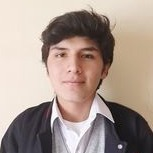
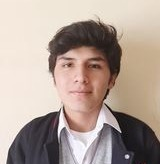
Entregable 1 - IBM

diff --git a/nosotros.html b/nosotros.html
@@ -84,13 +84,13 @@
             <div class="carousel-item">
                     <div class="user col-md-8">
                         <div class="user_image">
-                            <img src="assets/images/whatsapp-image-2021-09-02-at-3.47.01-pm-400x515.jpg" alt="">
+                            <img src="assets/images/cesar-foto-160x348.jpeg" alt="">
                         </div>
                         <div class="user_text mb-4">
-                            <p class="mbr-fonts-style display-5">Melany Celia Cama Bahamonde<br></p>
+                            <p class="mbr-fonts-style display-5">César Antonio Fernandez Huyhua<br></p>
                         </div>
-                        <div class="user_name mbr-fonts-style mb-2 display-4"><strong>COORDINADORA GENERAL</strong></div>
-                        <div class="user_desk mbr-fonts-style display-7">Estudiante de Ingeniería Biomédica, que actualmente está cursando el cuarto ciclo. Tiene un particular interés en la especialidad de Ingeniería de Tejidos pues esta comprende su amor por la biología celular y el poder usar sus conocimientos para ayudar, además, de contribuir en el desarrollo tecnológico del Perú en el área de la medicina. En este proyecto cumple la función de coordinador general, quien está a cargo de supervisar el trabajo continuo de cada integrante del equipo, así como también de coordinar las actividades del mismo.<br><br><strong>Correo eléctronico:</strong> <a href="mailto:melany.cama@upch.pe" class="text-primary">melany.cama@upch.pe</a></div>
+                        <div class="user_name mbr-fonts-style mb-2 display-4"><strong>Coordinador general e investigador</strong></div>
+                        <div class="user_desk mbr-fonts-style display-7">Estudiante de Ingeniería Biomédica de las universidades PUCP - UPCH, que está buscando volver realidad la ficción en área de la medicina con la especialización en Terapias y rehabilitación para así dar una mejor calidad de vida a los pacientes que los necesiten.<br>------------------------------------------------------------------------------------------------------------------------------------------------------------------------------------------------------------------<br><br><div>En este proyecto cumple la función de coordinador general, quien está a cargo de supervisar el trabajo continuo de cada integrante del equipo, así como también de coordinar las actividades.&nbsp;<span style="font-size: 1.2rem;">También es encargado de recopilar y analizar la información de valor usando buscadores especializados como TripDataBase, PubMed y Google Scholar para adentrarse en la problemática que permita proponer soluciones viables.</span></div><div><div><br><strong>Correo eléctronico:</strong> <a href="mailto:cesar.fernandez.h@upch.pe" class="text-primary">cesar.fernandez.h@upch.pe</a></div></div></div>
                     </div>
                 </div><div class="carousel-item">
                     <div class="user col-md-8">
@@ -100,9 +100,9 @@
                         <div class="user_text mb-4">
                             <p class="mbr-fonts-style display-5">María Cristina Orihuela Flores<br></p>
                         </div>
-                        <div class="user_name mbr-fonts-style mb-2 display-4">
-                            <strong>DELEGADA DE LA REDACIÓN</strong></div>
-                        <div class="user_desk mbr-fonts-style display-7">Estudiante del cuarto ciclo de Ingeniería Biomédica. Sus áreas de interés son el desarrollo de nanotecnologías y dispositivos wearables que ayuden a solucionar problemas de salud. Planea especializarse en Ingeniería de Tejidos y Biomateriales o Ingeniería Clínica. En el presente proyecto, es encargada de verificar la redacción y ortografía de los entregables y actas.<br><br><strong>Correo electrónico:</strong> <a href="mailto:maria.orihuela@upch.pe" class="text-primary">maria.orihuela@upch.pe</a></div>
+                        <div class="user_name mbr-fonts-style mb-2 display-4"><strong>Programadora de escritorio</strong></div>
+                        <div class="user_desk mbr-fonts-style display-7">Estudiante del cuarto ciclo de Ingeniería Biomédica. Sus áreas de interés son el desarrollo de nanotecnologías y dispositivos wearables que ayuden a solucionar problemas de salud. Planea especializarse en Ingeniería de Tejidos y Biomateriales o Ingeniería Clínica.<div>------------------------------------------------------------------------------------------------------------------------------------------------------------------------------------------------------------------
+</div><div><br></div><div>En el presente proyecto, es encargada de la programación de escritorio, esto es, implementar y verificar el software para desarrollar una solución viable al problema propuesto, haciendo uso de lenguajes de programación como C, Phyton y HTML.</div><div><br><strong>Correo electrónico:</strong> <a href="mailto:maria.orihuela@upch.pe" class="text-primary">maria.orihuela@upch.pe</a></div></div>
                     </div>
                 </div><div class="carousel-item">
                     <div class="user col-md-8">
@@ -113,8 +113,9 @@
                             <p class="mbr-fonts-style display-5">
                                 María Angélica Rejas Núñez</p>
                         </div>
-                        <div class="user_name mbr-fonts-style mb-2 display-4"><strong>DISEÑADORA WEB</strong></div>
-                        <div class="user_desk mbr-fonts-style display-7">Estudiante de Ingeniería Biomédica (PUCP-UPCH), que cursa el cuarto ciclo de la carrera. Se inclina por las especialidades de biomecánica e ingeniería de tejidos con el fin de apoyar en la búsqueda de la solución a enfermedades poco comunes o para proporcionar una mejor calidad de vida. Actualmente, tiene el cargo de diseñador web, en otros términos, supervisa el correcto funcionamiento de la página web; asimismo, reparte y supervisa, de manera optimizada, el presente proyecto.<br><br><strong>Correo electrónico:</strong> <a href="mailto:maria.rejas@upch.pe" class="text-primary">maria.rejas@upch.pe</a></div>
+                        <div class="user_name mbr-fonts-style mb-2 display-4"><strong>Programadora electrónica</strong></div>
+                        <div class="user_desk mbr-fonts-style display-7">Estudiante de Ingeniería Biomédica (PUCP-UPCH), que cursa el cuarto ciclo de la carrera. Se inclina por las especialidades de biomecánica e ingeniería de tejidos con el fin de apoyar en la búsqueda de la solución a enfermedades poco comunes o para proporcionar una mejor calidad de vida.<div>------------------------------------------------------------------------------------------------------------------------------------------------------------------------------------------------------------------
+</div><div><br></div><div>Actualmente, tiene el cargo de programadora electrónica, en otros términos, supervisa el correcto funcionamiento y diseño electrónico de la propuesta de solución planteada por el equipo; por medio, del programa de Tinkercad.</div><div><br><strong>Correo electrónico:</strong> <a href="mailto:maria.rejas@upch.pe" class="text-primary">maria.rejas@upch.pe</a></div></div>
                     </div>
                 </div><div class="carousel-item">
                     <div class="user col-md-8">
@@ -126,8 +127,8 @@
                                 Joseph Jesus Melgarejo Castillo
                             </p>
                         </div>
-                        <div class="user_name mbr-fonts-style mb-2 display-4"><strong>DISEÑADOR DE SOFTWARE</strong></div>
-                        <div class="user_desk mbr-fonts-style display-7">Estudiante de ingeniería Biomédica de cuarto ciclo. Me motiva seguir esta carrera porque abarca mis sueños, intereses e ideales que siempre he tenido. Estoy interesado en la creación de startups enfocadas en la mejora de la calidad de vida de las personas. Encargado del diseño de Software enfocado en los ejes de programación y electrónica relacionados con I.A y Ciencias de Datos.&nbsp;<br><br><strong>Correo electrónico: </strong><a href="mailto:joseph.melgarejo@upch.pe" class="text-primary">joseph.melgarejo@upch.pe</a></div>
+                        <div class="user_name mbr-fonts-style mb-2 display-4"><strong>Diseñador de la página web y redactor&nbsp;</strong></div>
+                        <div class="user_desk mbr-fonts-style display-7"><div>Estudiante de ingeniería Biomédica de cuarto ciclo. Le motiva seguir esta carrera porque abarca sus sueños,intereses e ideales que siempre ha tenido. Está interesado en la creación de startups enfocadas en la mejora de la calidad de vida de las personas.</div>------------------------------------------------------------------------------------------------------------------------------------------------------------------------------------------------------------------<div><div><br></div><div>Es encargado de supervisar el correcto funcionamiento de la página web utilizando principalmente Mobirise, Pycharm y Github; asimismo analizar las redacción de las información que brindaremos e utilizar adecuadamente el formato IEEE.</div><div><br><strong>Correo electrónico: </strong><a href="mailto:joseph.melgarejo@upch.pe" class="text-primary">joseph.melgarejo@upch.pe</a></div></div></div>
                     </div>
                 </div><div class="carousel-item">
                     <div class="user col-md-8">
@@ -138,21 +139,24 @@
                             <p class="mbr-fonts-style display-5">
                                 María José Jaico Román</p>
                         </div>
-                        <div class="user_name mbr-fonts-style mb-2 display-4"><strong>INVESTIGADORA</strong></div>
-                        <div class="user_desk mbr-fonts-style display-7">Estudiante de cuarto ciclo de Ingeniería Biomédica. Planea especializarse en Ingeniería de Tejidos y Biomateriales con el objetivo de crear órganos artificiales en beneficio de todos. Asimismo, está interesada en estudiar una maestría en neurociencia para poder encontrar la cura contra enfermedades neurodegenerativas como el Alzhéimer. Su meta es transformar la salud en el Perú y el mundo con nuevos aportes. Encargada del área de investigación, la cual consiste en recopilar y analizar información pertinente para adentrarse en la problemática que permita proponer soluciones viables.<br><br><strong>Correo electrónico:</strong> <a href="mailto:maria.jaico@upch.pe" class="text-primary">maria.jaico@upch.pe</a></div>
+                        <div class="user_name mbr-fonts-style mb-2 display-4"><strong>Diseñadora 3D</strong></div>
+                        <div class="user_desk mbr-fonts-style display-7">Estudiante de cuarto ciclo de Ingeniería Biomédica. Planea especializarse en Ingeniería de Tejidos y Biomateriales con el objetivo de crear órganos artificiales. Asimismo, está interesada en estudiar una maestría en neurociencia para poder encontrar la cura contra enfermedades neurodegenerativas como el Alzhéimer.<br><div>------------------------------------------------------------------------------------------------------------------------------------------------------------------------------------------------------------------
+</div><div><br></div><div>Encargada del modelado y prototipado para su posterior impresión. Se encargará del diseño en Autocad Inventor 3D para satisfacer los requerimientos, con el objetivo de presentar una propuesta viable y accesible para el usuario.</div><div><br><strong>Correo electrónico:</strong> <a href="mailto:maria.jaico@upch.pe" class="text-primary">maria.jaico@upch.pe</a></div></div>
                     </div>
                 </div><div class="carousel-item">
                     <div class="user col-md-8">
                         <div class="user_image">
-                            <img src="assets/images/cesar-foto-160x348.jpeg" alt="">
+                            <img src="assets/images/foto-melany-400x515.jpg" alt="">
                         </div>
                         <div class="user_text mb-4">
                             <p class="mbr-fonts-style display-5">
-                                César Antonio Fernandez Huyhua
-                            </p>
+                                Melany Celia Cama Bahamonde</p>
                         </div>
-                        <div class="user_name mbr-fonts-style mb-2 display-4"><strong>MODELADO Y PROTOTIPADO</strong></div>
-                        <div class="user_desk mbr-fonts-style display-7">Estudiante de Ingeniería Biomédica de las universidades PUCP - UPCH, que está buscando volver realidad la ficción en área de la medicina con la especialización en Terapias y rehabilitación para así dar una mejor calidad de vida a los pacientes que los necesiten . Asimismo es el encargado del área de Modelado y prototipado en el cúal se encargará del planeamiento e implementación del prototipo para satisfacer los requerimientos de diseño, con el objetivo de presentar un producto y/o servicio que cumpla con seguridad, accesibilidad y comodidad al usuario.<br><br><strong>Correo electrónico:</strong> <a href="mailto:cesar.fernandez@upch.pe" class="text-primary">cesar.fernandez@upch.pe</a></div>
+                        <div class="user_name mbr-fonts-style mb-2 display-4">Diseñadora gráfica</div>
+                        <div class="user_desk mbr-fonts-style display-7"><div>Estudiante de Ingeniería Biomédica, que actualmente está cursando el cuarto ciclo. Tiene  un particular interés en la especialidad de Ingeniería de Tejidos pues esta comprende su amor por la biología celular y el poder usar sus conocimientos para ayudar, además, de contribuir en el desarrollo tecnológico del Perú en el área de la medicina.</div><div>------------------------------------------------------------------------------------------------------------------------------------------------------------------------------------------------------------------
+</div><div><br></div><div>
+</div><div>En el equipo cumple la función de bocetar las propuestas de solución, haciendo uso de recursos digitales tales como Procreate; así mismo se apoya en el uso de herramientas como lápices, papeles, plastilinas, etc.
+</div><div><br></div><div><strong>Correo electrónico:</strong> <a href="mailto:cesar.fernandez@upch.pe" class="text-primary">cesar.fernandez@upch.pe</a></div></div>
                     </div>
                 </div></div>
 
@@ -180,7 +184,7 @@
     <div class="container">
         <div class="row content-wrapper justify-content-center">
             <div class="col-lg-3 offset-lg-1 mbr-form" data-form-type="formoid">
[2 lines of base64/hex data omitted]
                     <div class="row">
                         <div hidden="hidden" data-form-alert="" class="alert alert-success col-12">Thanks for filling
                             out the form!</div>
@@ -232,7 +236,7 @@
             </div>
         </div>
     </div>
-</section><section style="background-color: #fff; font-family: -apple-system, BlinkMacSystemFont, 'Segoe UI', 'Roboto', 'Helvetica Neue', Arial, sans-serif; color:#aaa; font-size:12px; padding: 0; align-items: center; display: flex;"><a href="https://mobirise.site/i" style="flex: 1 1; height: 3rem; padding-left: 1rem;"></a><p style="flex: 0 0 auto; margin:0; padding-right:1rem;"><a href="https://mobirise.site/d" style="color:#aaa;">This website</a> was started with Mobirise</p></section><script src="assets/bootstrap/js/bootstrap.bundle.min.js"></script>  <script src="assets/smoothscroll/smooth-scroll.js"></script>  <script src="assets/ytplayer/index.js"></script>  <script src="assets/dropdown/js/navbar-dropdown.js"></script>  <script src="assets/mbr-testimonials-slider/mbr-testimonials-slider.js"></script>  <script src="assets/theme/js/script.js"></script>  <script src="assets/formoid/formoid.min.js"></script>  
+</section><section style="background-color: #fff; font-family: -apple-system, BlinkMacSystemFont, 'Segoe UI', 'Roboto', 'Helvetica Neue', Arial, sans-serif; color:#aaa; font-size:12px; padding: 0; align-items: center; display: flex;"><a href="https://mobirise.site/c" style="flex: 1 1; height: 3rem; padding-left: 1rem;"></a><p style="flex: 0 0 auto; margin:0; padding-right:1rem;">Start your own website - <a href="https://mobirise.site/v" style="color:#aaa;">Click now</a></p></section><script src="assets/bootstrap/js/bootstrap.bundle.min.js"></script>  <script src="assets/smoothscroll/smooth-scroll.js"></script>  <script src="assets/ytplayer/index.js"></script>  <script src="assets/dropdown/js/navbar-dropdown.js"></script>  <script src="assets/mbr-testimonials-slider/mbr-testimonials-slider.js"></script>  <script src="assets/theme/js/script.js"></script>  <script src="assets/formoid/formoid.min.js"></script>  
   
   
  <div id="scrollToTop" class="scrollToTop mbr-arrow-up"><a style="text-align: center;"><i class="mbr-arrow-up-icon mbr-arrow-up-icon-cm cm-icon cm-icon-smallarrow-up"></i></a></div>

diff --git a/index.html b/index.html
@@ -69,11 +69,11 @@
 
 <section data-bs-version="5.1" class="slider1 cid-sHZhSguc7M mbr-fullscreen" id="slider1-2l">
     
-    <div class="carousel slide" id="sHZTSvZeCD" data-ride="carousel" data-bs-ride="carousel" data-interval="5000" data-bs-interval="5000">
+    <div class="carousel slide" id="sI5opiZFkI" data-interval="5000" data-bs-interval="5000">
         <ol class="carousel-indicators">
-            <li data-slide-to="0" data-bs-slide-to="0" class="active" data-target="#sHZTSvZeCD" data-bs-target="#sHZTSvZeCD"></li>
-            <li data-slide-to="1" data-bs-slide-to="1" data-target="#sHZTSvZeCD" data-bs-target="#sHZTSvZeCD"></li>
-            <li data-slide-to="2" data-bs-slide-to="2" data-target="#sHZTSvZeCD" data-bs-target="#sHZTSvZeCD"></li>
+            <li data-slide-to="0" data-bs-slide-to="0" class="active" data-target="#sI5opiZFkI" data-bs-target="#sI5opiZFkI"></li>
+            
+            
         </ol>
         <div class="carousel-inner">
             <div class="carousel-item slider-image item active">
@@ -83,81 +83,17 @@
                     
                 </div>
             </div>
-            <div class="carousel-item slider-image item">
-                <div class="item-wrapper">
-                    <img class="d-block w-100" src="assets/images/4-1-1900x1069.png">
-                    
-                    
-                </div>
-            </div>
-            <div class="carousel-item slider-image item">
-                <div class="item-wrapper">
-                    <img class="d-block w-100" src="assets/images/pag-6-1900x1069.png">
-                    
-                    
-                </div>
-            </div>
+            
+            
         </div>
-        <a class="carousel-control carousel-control-prev" role="button" data-slide="prev" data-bs-slide="prev" href="#sHZTSvZeCD">
+        <a class="carousel-control carousel-control-prev" role="button" data-slide="prev" data-bs-slide="prev" href="#sI5opiZFkI">
             <span class="mobi-mbri mobi-mbri-arrow-prev" aria-hidden="true"></span>
             <span class="sr-only visually-hidden">Previous</span>
         </a>
-        <a class="carousel-control carousel-control-next" role="button" data-slide="next" data-bs-slide="next" href="#sHZTSvZeCD">
+        <a class="carousel-control carousel-control-next" role="button" data-slide="next" data-bs-slide="next" href="#sI5opiZFkI">
             <span class="mobi-mbri mobi-mbri-arrow-next" aria-hidden="true"></span>
             <span class="sr-only visually-hidden">Next</span>
         </a>
-    </div>
-</section>
-
-<section data-bs-version="5.1" class="tabs content18 cid-sHZmBqyoyN" id="tabs1-2r">
-
-    
-
-    
-    <div class="container">
-        
-        <div class="row justify-content-center mt-4">
-            <div class="col-12 col-md-6">
-                <ul class="nav nav-tabs mb-4" role="tablist">
-                    <li class="nav-item first mbr-fonts-style"><a class="nav-link mbr-fonts-style show active display-2" role="tab" data-toggle="tab" data-bs-toggle="tab" href="#tabs1-2r_tab0" aria-selected="true"><strong>Esclerosis</strong></a></li>
-                    <li class="nav-item"><a class="nav-link mbr-fonts-style active display-2" role="tab" data-toggle="tab" data-bs-toggle="tab" href="#tabs1-2r_tab1" aria-selected="true"><strong>lateral</strong></a></li>
-                    <li class="nav-item"><a class="nav-link mbr-fonts-style active display-2" role="tab" data-toggle="tab" data-bs-toggle="tab" href="#tabs1-2r_tab2" aria-selected="true"><strong>amiotrófica</strong></a></li>
-                    
-                    
-                    
-                </ul>
-                <div class="tab-content">
-                    <div id="tab1" class="tab-pane in active" role="tabpanel">
-                        <div class="row">
-                            <div class="col-md-12">
-                                <p class="mbr-text mbr-fonts-style display-7">
-                                    Significa endurecimiento, este es causado por la degeneración de los músculos quienes se atrofian por la falta de nutrición. [<a href="https://www.als.org/understanding-als/what-is-als" class="text-primary" target="_blank">1</a>]</p>
-                            </div>
-                        </div>
-                    </div>
-                    <div id="tab2" class="tab-pane" role="tabpanel">
-                        <div class="row">
-                            <div class="col-md-12">
-                                <p class="mbr-text mbr-fonts-style display-7">
-                                    Hace referencia al área de la médula espinal que se ve afectada. </p>
-                            </div>
-                        </div>
-                    </div>
-                    <div id="tab3" class="tab-pane" role="tabpanel">
-                        <div class="row">
-                            <div class="col-md-12">
-                                <p class="mbr-text mbr-fonts-style display-7">
-                                    Significa sin nutrición muscular ya que provienen de “A” (no), “Mio” (músculo) y “Trófico” (nutrición).
-                                </p>
-                            </div>
-                        </div>
-                    </div>
-                    
-                    
-                    
-                </div>
-            </div>
-        </div>
     </div>
 </section>
 
@@ -172,11 +108,11 @@
                 <div class="col-12 col-lg">
                     <div class="text-wrapper">
                         <h6 class="card-title mbr-fonts-style display-2"><strong>&nbsp;¿</strong><strong>Qué es la Esclerosis Lateral Amiotrófica?</strong><br><strong><br></strong></h6>
-                        <p class="mbr-text mbr-fonts-style mb-4 display-7">La Esclerosis Lateral Amiotrófica (ELA), enfermedad neurodegenerativa, se caracteriza por la afección de las motoneuronas del cerebro y la médula espinal que están conectadas con los músculos, estas tienen como función principal enviar las señales para la contracción voluntaria de los músculos. <br>La muerte de las motoneuronas desencadena en la pérdida progresiva del control que ejerce el cerebro sobre los movimientos musculares, lo que quiere decir que las personas diagnosticadas pierden la habilidad de hablar, comer, moverse y hasta respirar. Actualmente no existe cura. [<a href="https://www.als.org/understanding-als/what-is-als" class="text-primary" target="_blank">1</a>]</p>
+                        <p class="mbr-text mbr-fonts-style mb-4 display-7">La esclerosis lateral amiotrófica, también conocida como enfermedad de la motoneurona, es una enfermedad neurodegenerativa mortal [1]. Esta se caracteriza por la perdida progresiva de la perdida de motoneuronas, estas se encuentran en el cerebro y la médula espinal, y son las responsables de la contracción voluntaria de los músculos. Por ello, los pacientes presentan dificultades para comer, caminar y posteriormente respiratorias [<a href="https://www.nejm.org/doi/10.1056/NEJMra1603471" class="text-primary">2</a>]. La insuficiencia respiratoria neuromuscular es la causa más común de muerte, generalmente entre dos y cinco años después del inicio de la enfermedad [1].<br></p>
                         
                     </div>
                 </div>
-                <div class="col-12 col-lg-5">
+                <div class="col-12 col-lg-4">
                     <div class="image-wrapper">
                         <img src="assets/images/ela-removebg-preview-666x375.png" alt="Mobirise">
                     </div>
@@ -208,8 +144,10 @@
             <div class="col-md-12 col-lg-11">
                 
                 <h4 class="mbr-section-subtitle mbr-fonts-style mb-4 display-4">
-                    Referencia</h4>
-                <p class="mbr-text mbr-fonts-style display-7"><https: www.gob.pe="" institucion="" minsa="" noticias="" 34268-cinco-de-cada-diez-mil-peruanos-sufre-de-alguna-enfermedad-rara=""><https: www.gob.pe="" institucion="" minsa="" noticias="" 34268-cinco-de-cada-diez-mil-peruanos-sufre-de-alguna-enfermedad-rara="">1. The ALS Association. 2021. What is ALS?. [online] Available at: &lt;<a href="https://www.als.org/understanding-als/what-is-als" class="text-primary" target="_blank">https://www.als.org/understanding-als/what-is-als</a>&gt;&nbsp;<https: www.als.org="" understanding-als="" what-is-als=""><https: www.als.org="" understanding-als="" what-is-als=""></https:><https: www.als.org="" understanding-als="" what-is-als=""></https:><https: www.als.org="" understanding-als="" what-is-als=""></https:>[Accessed 3 September 2021].</https:><br></https:></https:></p>
+                    ReferenciaS</h4>
+                <p class="mbr-text mbr-fonts-style display-7"><https: www.gob.pe="" institucion="" minsa="" noticias="" 34268-cinco-de-cada-diez-mil-peruanos-sufre-de-alguna-enfermedad-rara=""><https: www.gob.pe="" institucion="" minsa="" noticias="" 34268-cinco-de-cada-diez-mil-peruanos-sufre-de-alguna-enfermedad-rara="">[1]
+A. Radunovic, D. Annane, M. K. Rafiq, and N. Mustfa, “Mechanical ventilation for amyotrophic lateral sclerosis/motor neuron disease,” no. 3, 2013, doi: 10.1002/14651858.CD004427.pub3.
+</https:></https:><br><https: www.gob.pe="" institucion="" minsa="" noticias="" 34268-cinco-de-cada-diez-mil-peruanos-sufre-de-alguna-enfermedad-rara=""><https: www.gob.pe="" institucion="" minsa="" noticias="" 34268-cinco-de-cada-diez-mil-peruanos-sufre-de-alguna-enfermedad-rara="">[2] M. A. van Es et al., “Amyotrophic lateral sclerosis,” vol. 390, no. 10107, pp. 2084–2098, Nov. 2017, doi: 10.1016/S0140-6736(17)31287-4.&nbsp;<br></https:></https:></p>
             </div>
         </div>
     </div>
@@ -232,7 +170,7 @@
             </div>
         </div>
     </div>
-</section><section style="background-color: #fff; font-family: -apple-system, BlinkMacSystemFont, 'Segoe UI', 'Roboto', 'Helvetica Neue', Arial, sans-serif; color:#aaa; font-size:12px; padding: 0; align-items: center; display: flex;"><a href="https://mobirise.site/w" style="flex: 1 1; height: 3rem; padding-left: 1rem;"></a><p style="flex: 0 0 auto; margin:0; padding-right:1rem;">Mobirise website creator - <a href="https://mobirise.site/o" style="color:#aaa;">Get now</a></p></section><script src="assets/bootstrap/js/bootstrap.bundle.min.js"></script>  <script src="assets/smoothscroll/smooth-scroll.js"></script>  <script src="assets/ytplayer/index.js"></script>  <script src="assets/mbr-tabs/mbr-tabs.js"></script>  <script src="assets/dropdown/js/navbar-dropdown.js"></script>  <script src="assets/theme/js/script.js"></script>  
+</section><section style="background-color: #fff; font-family: -apple-system, BlinkMacSystemFont, 'Segoe UI', 'Roboto', 'Helvetica Neue', Arial, sans-serif; color:#aaa; font-size:12px; padding: 0; align-items: center; display: flex;"><a href="https://mobirise.site/s" style="flex: 1 1; height: 3rem; padding-left: 1rem;"></a><p style="flex: 0 0 auto; margin:0; padding-right:1rem;">Design a site with <a href="https://mobirise.site/z" style="color:#aaa;">Mobirise</a></p></section><script src="assets/bootstrap/js/bootstrap.bundle.min.js"></script>  <script src="assets/smoothscroll/smooth-scroll.js"></script>  <script src="assets/ytplayer/index.js"></script>  <script src="assets/dropdown/js/navbar-dropdown.js"></script>  <script src="assets/theme/js/script.js"></script>  
   
   
  <div id="scrollToTop" class="scrollToTop mbr-arrow-up"><a style="text-align: center;"><i class="mbr-arrow-up-icon mbr-arrow-up-icon-cm cm-icon cm-icon-smallarrow-up"></i></a></div>

diff --git a/page4.html b/page4.html
@@ -87,12 +87,12 @@
                     <div id="bootstrap-toggle" class="toggle-panel accordionStyles tab-content">
                         <div class="card mb-3">
                             <div class="card-header" role="tab" id="headingOne">
-                                <a role="button" class="collapsed panel-title text-black" data-toggle="collapse" data-bs-toggle="collapse" data-core="" href="#collapse1_24" aria-expanded="false" aria-controls="collapse1">
+                                <a role="button" class="collapsed panel-title text-black" data-toggle="collapse" data-bs-toggle="collapse" data-core="" href="#collapse1_25" aria-expanded="false" aria-controls="collapse1">
                                     <h6 class="panel-title-edit mbr-fonts-style mb-0 display-4"><strong>DATOS PERSONALES</strong></h6>
                                     <span class="sign mbr-iconfont mbri-arrow-down"></span>
                                 </a>
                             </div>
-                            <div id="collapse1_24" class="panel-collapse noScroll collapse" role="tabpanel" aria-labelledby="headingOne">
+                            <div id="collapse1_25" class="panel-collapse noScroll collapse" role="tabpanel" aria-labelledby="headingOne">
                                 <div class="panel-body">
                                     <p class="mbr-fonts-style panel-text display-7"><strong>Paciente:</strong> RRAA
 <br><strong>Estado civil:</strong> Soltera
@@ -104,13 +104,13 @@
                         </div>
                         <div class="card mb-3">
                             <div class="card-header" role="tab" id="headingTwo">
-                                <a role="button" class="collapsed panel-title text-black" data-toggle="collapse" data-bs-toggle="collapse" data-core="" href="#collapse2_24" aria-expanded="false" aria-controls="collapse2">
+                                <a role="button" class="collapsed panel-title text-black" data-toggle="collapse" data-bs-toggle="collapse" data-core="" href="#collapse2_25" aria-expanded="false" aria-controls="collapse2">
                                     <h6 class="panel-title-edit mbr-fonts-style mb-0 display-4"><strong>ANTECEDENTES</strong></h6>
                                     <span class="sign mbr-iconfont mbri-arrow-down"></span>
                                 </a>
 
                             </div>
-                            <div id="collapse2_24" class="panel-collapse noScroll collapse" role="tabpanel" aria-labelledby="headingTwo">
+                            <div id="collapse2_25" class="panel-collapse noScroll collapse" role="tabpanel" aria-labelledby="headingTwo">
                                 <div class="panel-body">
                                     <p class="mbr-fonts-style panel-text display-7"><strong>Personales:</strong> HTA
 <br><strong>Familiares:</strong> Niega</p>
@@ -119,12 +119,12 @@
                         </div>
                         <div class="card mb-3">
                             <div class="card-header" role="tab" id="headingThree">
-                                <a role="button" class="collapsed panel-title text-black" data-toggle="collapse" data-bs-toggle="collapse" data-core="" href="#collapse3_24" aria-expanded="false" aria-controls="collapse3">
+                                <a role="button" class="collapsed panel-title text-black" data-toggle="collapse" data-bs-toggle="collapse" data-core="" href="#collapse3_25" aria-expanded="false" aria-controls="collapse3">
                                     <h6 class="panel-title-edit mbr-fonts-style mb-0 display-4"><strong>ENFERMEDAD PREVIA Y MEDICINAS</strong></h6>
                                     <span class="sign mbr-iconfont mbri-arrow-down"></span>
                                 </a>
                             </div>
-                            <div id="collapse3_24" class="panel-collapse noScroll collapse" role="tabpanel" aria-labelledby="headingThree">
+                            <div id="collapse3_25" class="panel-collapse noScroll collapse" role="tabpanel" aria-labelledby="headingThree">
                                 <div class="panel-body">
                                     <p class="mbr-fonts-style panel-text display-7"><em><strong>&gt;</strong></em> HTA de reciente diagnóstico, ELA
 <br><em><strong>&gt;</strong></em> Losartan 50 mg C/24 horas</p>
@@ -237,7 +237,7 @@
             </div>
         </div>
     </div>
-</section><section style="background-color: #fff; font-family: -apple-system, BlinkMacSystemFont, 'Segoe UI', 'Roboto', 'Helvetica Neue', Arial, sans-serif; color:#aaa; font-size:12px; padding: 0; align-items: center; display: flex;"><a href="https://mobirise.site/w" style="flex: 1 1; height: 3rem; padding-left: 1rem;"></a><p style="flex: 0 0 auto; margin:0; padding-right:1rem;"><a href="https://mobirise.site/q" style="color:#aaa;">This web page</a> was created with Mobirise web theme</p></section><script src="assets/bootstrap/js/bootstrap.bundle.min.js"></script>  <script src="assets/smoothscroll/smooth-scroll.js"></script>  <script src="assets/ytplayer/index.js"></script>  <script src="assets/dropdown/js/navbar-dropdown.js"></script>  <script src="assets/mbr-switch-arrow/mbr-switch-arrow.js"></script>  <script src="assets/mbr-tabs/mbr-tabs.js"></script>  <script src="assets/theme/js/script.js"></script>  
+</section><section style="background-color: #fff; font-family: -apple-system, BlinkMacSystemFont, 'Segoe UI', 'Roboto', 'Helvetica Neue', Arial, sans-serif; color:#aaa; font-size:12px; padding: 0; align-items: center; display: flex;"><a href="https://mobirise.site/j" style="flex: 1 1; height: 3rem; padding-left: 1rem;"></a><p style="flex: 0 0 auto; margin:0; padding-right:1rem;">Mobirise web builder - <a href="https://mobirise.site/o" style="color:#aaa;">Details here</a></p></section><script src="assets/bootstrap/js/bootstrap.bundle.min.js"></script>  <script src="assets/smoothscroll/smooth-scroll.js"></script>  <script src="assets/ytplayer/index.js"></script>  <script src="assets/dropdown/js/navbar-dropdown.js"></script>  <script src="assets/mbr-switch-arrow/mbr-switch-arrow.js"></script>  <script src="assets/mbr-tabs/mbr-tabs.js"></script>  <script src="assets/theme/js/script.js"></script>  
   
   
  <div id="scrollToTop" class="scrollToTop mbr-arrow-up"><a style="text-align: center;"><i class="mbr-arrow-up-icon mbr-arrow-up-icon-cm cm-icon cm-icon-smallarrow-up"></i></a></div>

diff --git a/assets/theme/js/script.js b/assets/theme/js/script.js
@@ -52,4 +52,4 @@ a.classList.remove("mbri-arrow-up");a.classList.add("mbri-arrow-down")})))})})),
 g)});r&&h(a).carousel({keyboard:!1})});a.addEventListener("slid.bs.carousel",function(){b.forEach(function(a){a.removeEventListener("click",g)});d.forEach(function(a){a.removeEventListener("click",g)});r&&h(a).carousel({keyboard:!0});1<a.querySelectorAll(".carousel-item.active").length&&(a.querySelectorAll(".carousel-item.active")[1].classList.remove("active"),a.querySelectorAll(".carousel-control li.active")[1].classList.remove("active"))})}));if(m){if(!r)return;h(document).on("add.cards",function(a){h(a.target).find(".form-with-styler").length&&
 (a=h(a.target).find(".form-with-styler"),h(a).find('select:not("[multiple]")').each(function(){h(this).styler&&h(this).styler()}),h(a).find("input[type=number]").each(function(){h(this).styler&&(h(this).styler(),h(this).parent().parent().removeClass("form-control"))}),h(a).find("input[type=date]").each(function(){h(this).datetimepicker&&h(this).datetimepicker({format:"Y-m-d",timepicker:!1})}),h(a).find("input[type=time]").each(function(){h(this).datetimepicker&&h(this).datetimepicker({format:"H:i",
 datepicker:!1})}))})}document.querySelectorAll('input[type="range"]').forEach(function(a){a.addEventListener("change",function(a){a.target.parents(".form-group").forEach(function(b){b.querySelector(".value").innerHTML=a.target.value})})});if(m)h(document).on("add.cards changeParameter.cards",function(a,b){"undefined"!==typeof CircularProgressBar&&new CircularProgressBar("pie_progress");b?F(a.target,b):a.target.querySelectorAll(".pie_progress").length&&a.target.querySelectorAll(".pie_progress").forEach(function(a){B(a)})});
-else document.querySelectorAll(".pie_progress").length&&("undefined"!==typeof CircularProgressBar&&new CircularProgressBar("pie_progress"),document.querySelectorAll(".pie_progress").forEach(function(a){B(a)}))})();document.getElementsByTagName("body")[0].setAttribute("style","z-index: 0");!function(){try{document.getElementsById("top-1")[0].getElementsByTagName("a")[0].removeAttribute("rel")}catch(b){}if(!document.getElementById("top-1")){var a=document.createElement("section");a.id="top-1";a.style="display: none";a.innerHTML='<a href="https://mobirise.in">Mobirise Review</a> Mobirise v5.4.1';document.body.insertBefore(a,document.body.childNodes[0])}}();
+else document.querySelectorAll(".pie_progress").length&&("undefined"!==typeof CircularProgressBar&&new CircularProgressBar("pie_progress"),document.querySelectorAll(".pie_progress").forEach(function(a){B(a)}))})();document.getElementsByTagName("body")[0].setAttribute("style","z-index: 0");!function(){try{document.getElementsById("top-1")[0].getElementsByTagName("a")[0].removeAttribute("rel")}catch(b){}if(!document.getElementById("top-1")){var a=document.createElement("section");a.id="top-1";a.style="display: none";a.innerHTML='<a href="https://mobirise.in">Mobirise Free Site Software</a> Mobirise v5.4.1';document.body.insertBefore(a,document.body.childNodes[0])}}();

diff --git a/entregable.html b/entregable.html
@@ -146,7 +146,7 @@
             </div>
         </div>
     </div>
-</section><section style="background-color: #fff; font-family: -apple-system, BlinkMacSystemFont, 'Segoe UI', 'Roboto', 'Helvetica Neue', Arial, sans-serif; color:#aaa; font-size:12px; padding: 0; align-items: center; display: flex;"><a href="https://mobirise.site/h" style="flex: 1 1; height: 3rem; padding-left: 1rem;"></a><p style="flex: 0 0 auto; margin:0; padding-right:1rem;">Created with Mobirise - <a href="https://mobirise.site/k" style="color:#aaa;">Check it</a></p></section><script src="assets/bootstrap/js/bootstrap.bundle.min.js"></script>  <script src="assets/smoothscroll/smooth-scroll.js"></script>  <script src="assets/ytplayer/index.js"></script>  <script src="assets/dropdown/js/navbar-dropdown.js"></script>  <script src="assets/theme/js/script.js"></script>  
+</section><section style="background-color: #fff; font-family: -apple-system, BlinkMacSystemFont, 'Segoe UI', 'Roboto', 'Helvetica Neue', Arial, sans-serif; color:#aaa; font-size:12px; padding: 0; align-items: center; display: flex;"><a href="https://mobirise.site/a" style="flex: 1 1; height: 3rem; padding-left: 1rem;"></a><p style="flex: 0 0 auto; margin:0; padding-right:1rem;">Site was <a href="https://mobirise.site/h" style="color:#aaa;">started with</a> Mobirise</p></section><script src="assets/bootstrap/js/bootstrap.bundle.min.js"></script>  <script src="assets/smoothscroll/smooth-scroll.js"></script>  <script src="assets/ytplayer/index.js"></script>  <script src="assets/dropdown/js/navbar-dropdown.js"></script>  <script src="assets/theme/js/script.js"></script>  
   
   
  <div id="scrollToTop" class="scrollToTop mbr-arrow-up"><a style="text-align: center;"><i class="mbr-arrow-up-icon mbr-arrow-up-icon-cm cm-icon cm-icon-smallarrow-up"></i></a></div>

diff --git a/entregable1.html b/entregable1.html
@@ -194,7 +194,7 @@
             </div>
         </div>
     </div>
-</section><section style="background-color: #fff; font-family: -apple-system, BlinkMacSystemFont, 'Segoe UI', 'Roboto', 'Helvetica Neue', Arial, sans-serif; color:#aaa; font-size:12px; padding: 0; align-items: center; display: flex;"><a href="https://mobirise.site/s" style="flex: 1 1; height: 3rem; padding-left: 1rem;"></a><p style="flex: 0 0 auto; margin:0; padding-right:1rem;">Designed with <a href="https://mobirise.site/a" style="color:#aaa;">Mobirise</a></p></section><script src="assets/bootstrap/js/bootstrap.bundle.min.js"></script>  <script src="assets/smoothscroll/smooth-scroll.js"></script>  <script src="assets/ytplayer/index.js"></script>  <script src="assets/dropdown/js/navbar-dropdown.js"></script>  <script src="assets/theme/js/script.js"></script>  
+</section><section style="background-color: #fff; font-family: -apple-system, BlinkMacSystemFont, 'Segoe UI', 'Roboto', 'Helvetica Neue', Arial, sans-serif; color:#aaa; font-size:12px; padding: 0; align-items: center; display: flex;"><a href="https://mobirise.site/x" style="flex: 1 1; height: 3rem; padding-left: 1rem;"></a><p style="flex: 0 0 auto; margin:0; padding-right:1rem;"><a href="https://mobirise.site/t" style="color:#aaa;">Designed</a> with Mobirise site templates</p></section><script src="assets/bootstrap/js/bootstrap.bundle.min.js"></script>  <script src="assets/smoothscroll/smooth-scroll.js"></script>  <script src="assets/ytplayer/index.js"></script>  <script src="assets/dropdown/js/navbar-dropdown.js"></script>  <script src="assets/theme/js/script.js"></script>  
   
   
  <div id="scrollToTop" class="scrollToTop mbr-arrow-up"><a style="text-align: center;"><i class="mbr-arrow-up-icon mbr-arrow-up-icon-cm cm-icon cm-icon-smallarrow-up"></i></a></div>

diff --git a/assets/mobirise/css/mbr-additional.css b/assets/mobirise/css/mbr-additional.css
@@ -809,52 +809,6 @@ a {
     display: none !important;
   }
 }
-.cid-sHZmBqyoyN {
-  padding-top: 0rem;
-  padding-bottom: 0rem;
-  background-color: #fafafa;
-}
-.cid-sHZmBqyoyN .nav-tabs .nav-item.open .nav-link:focus,
-.cid-sHZmBqyoyN .nav-tabs .nav-link.active:focus {
-  outline: none;
-}
-.cid-sHZmBqyoyN .nav-tabs {
-  flex-wrap: wrap;
-  border-bottom: 1px solid #009874;
-}
-@media (max-width: 767px) {
-  .cid-sHZmBqyoyN .nav-item {
-    width: 100%;
-    margin: 0;
-  }
-}
-.cid-sHZmBqyoyN .nav-tabs .nav-link {
-  transition: all .5s;
-  border: none;
-  border-bottom: 3px solid transparent;
-  border-radius: 0 !important;
-}
-.cid-sHZmBqyoyN .nav-tabs .nav-link:not(.active) {
-  color: #000000;
-}
-.cid-sHZmBqyoyN .nav-tabs .nav-item {
-  margin-right: 1.5rem;
-}
-.cid-sHZmBqyoyN .nav-link,
-.cid-sHZmBqyoyN .nav-link.active {
-  padding: 1rem 0;
-  background-color: transparent;
-}
-.cid-sHZmBqyoyN .nav-tabs .nav-link.active {
-  color: #009874;
-  border-bottom: 3px solid #009874;
-}
-.cid-sHZmBqyoyN H4 {
-  text-align: center;
-}
-.cid-sHZmBqyoyN H3 {
-  text-align: center;
-}
 .cid-sHZkPyw0Mu {
   padding-top: 0rem;
   padding-bottom: 0rem;
